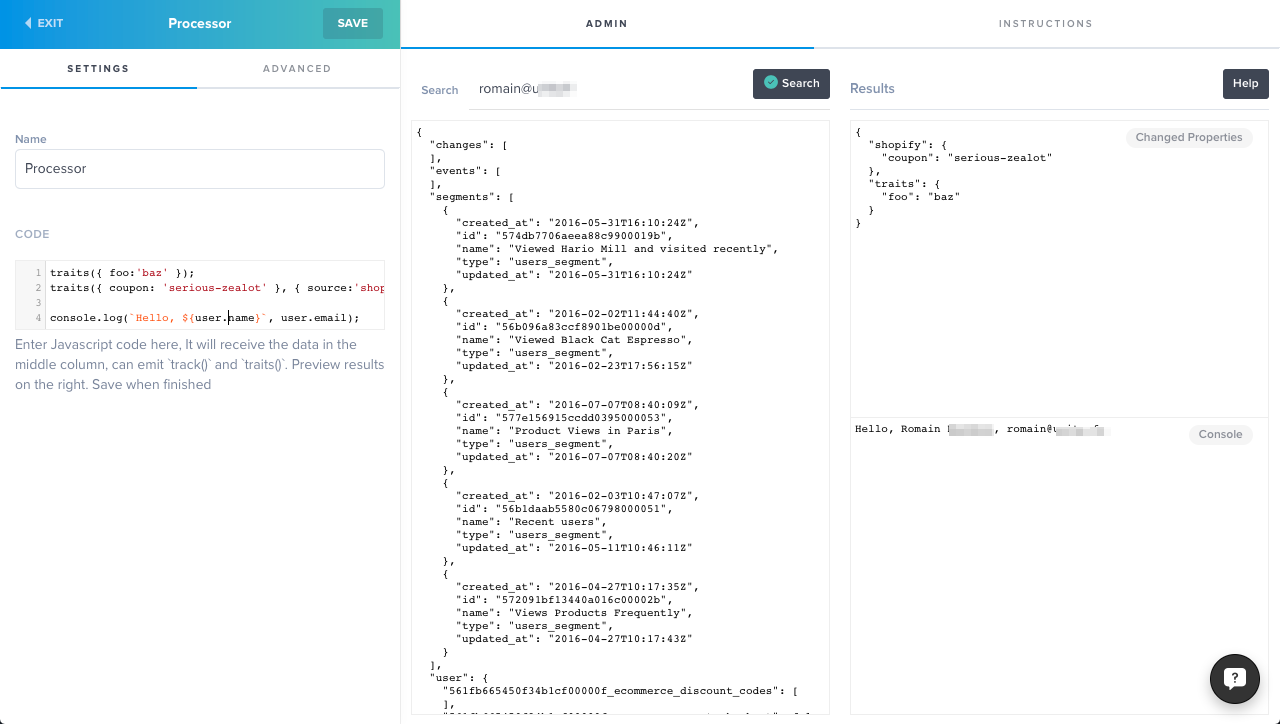
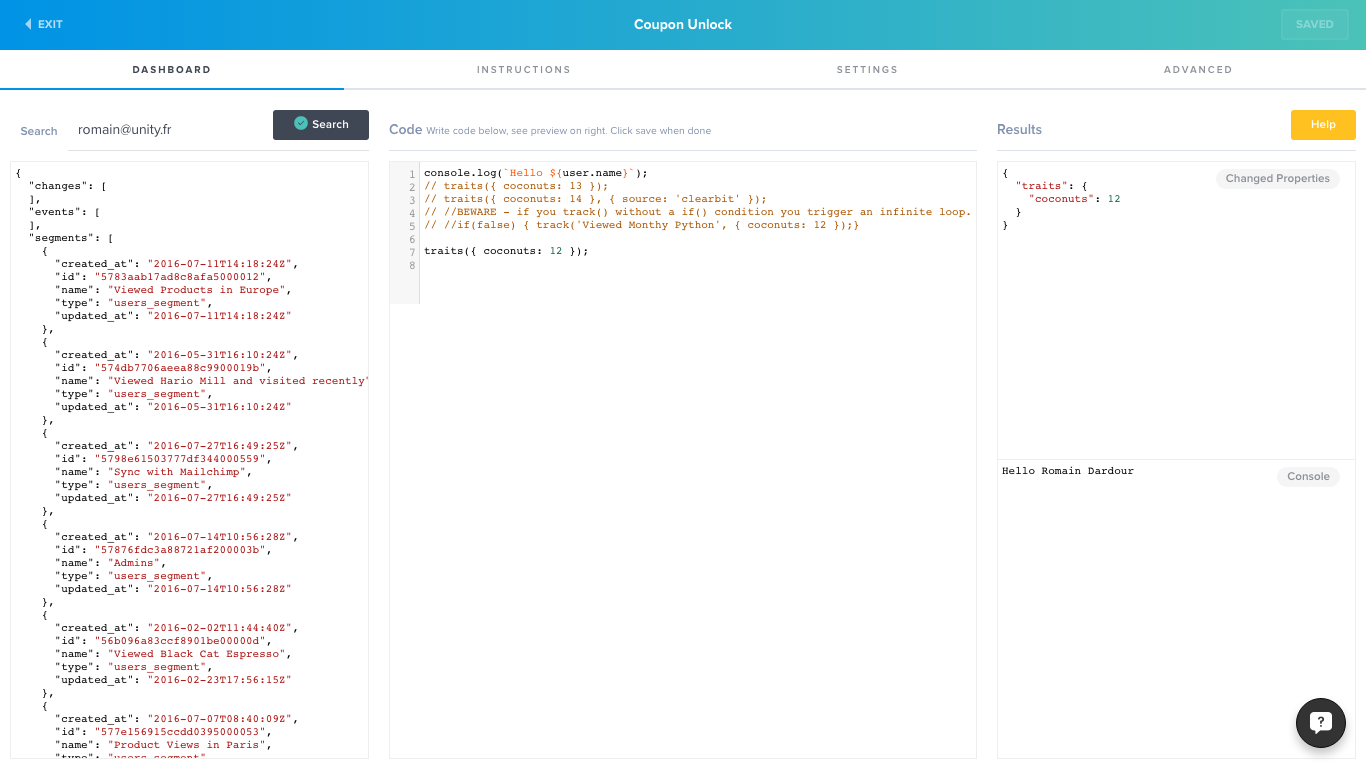
one column layout!

diff --git a/src/ui/search-form.jsx b/src/ui/search-form.jsx
@@ -1,6 +1,6 @@
-import React, { Component } from 'react';
-import Icon from './icon';
-import { Button } from 'react-bootstrap';
+import React, { Component } from "react";
+import Icon from "./icon";
+import { Button } from "react-bootstrap";
 
 export default class SearchForm extends Component {
 
@@ -23,7 +23,7 @@ export default class SearchForm extends Component {
   componentWillReceiveProps(nextProps) {
     const { userSearch } = nextProps;
     const state = { dirty: false };
-    if (userSearch && userSearch != this.props.userSearch) {
+    if (userSearch && userSearch !== this.props.userSearch) {
       state.userSearch = userSearch;
     }
     this.setState(state);
@@ -32,10 +32,10 @@ export default class SearchForm extends Component {
   getIcon() {
     const { loading, error } = this.props;
     const { dirty } = this.state;
-    if (loading) return 'spinner';
-    if (!dirty && error && error.reason === 'user_not_found') return 'cross';
-    if (!dirty) return 'valid';
-    return 'search';
+    if (loading) return "spinner";
+    if (!dirty && error && error.reason === "user_not_found") return "cross";
+    if (!dirty) return "valid";
+    return "search";
   }
 
   render() {
@@ -43,12 +43,12 @@ export default class SearchForm extends Component {
 
     return <form className="form form-light mt-05 mb-05" onSubmit={this.handleSubmit.bind(this)}>
       <div className="input-group">
-        <div className="input-group-addon" style={{textTransform:'none', background: 'none'}}>
+        <div className="input-group-addon" style={{ textTransform: "none", background: "none" }}>
           <h4 className="m-0 text-muted">Search</h4>
         </div>
         <input type="text" placeholder="Name or Email" value={this.state.userSearch} onChange={this.handleEmailChange.bind(this)} className="form-control form-control-sm" />
-        <div style={{ position: 'absolute', right: 0, top: -10, zIndex: 2 }}>
-          <Button bsStyle="default" bsSize="sm" clasName='btn-pill btn-rounded' onClick={this.handleSubmit.bind(this)} > <Icon name={this.getIcon()} /> Search </Button>
+        <div style={{ position: "absolute", right: 0, top: -10, zIndex: 2 }}>
+          <Button bsStyle={ loading ? "secondary" : "default" } bsSize="sm" clasName='btn-pill btn-rounded' onClick={this.handleSubmit.bind(this)} > <Icon name={this.getIcon()} /> { loading ? "Loading" : "Search" } </Button>
         </div>
       </div>
     </form>;

diff --git a/src/app.jsx b/src/app.jsx
@@ -1,8 +1,9 @@
 import React, { Component } from "react";
 import { Grid, Col, Row, Button } from "react-bootstrap";
 
-import ResultsPane from "./results";
 import UserPane from "./user";
+import CodePane from "./code";
+import ResultsPane from "./results";
 
 export default class App extends Component {
 
@@ -21,7 +22,6 @@ export default class App extends Component {
 
   _onChange = () => {
     const state = this.props.engine.getState();
-    console.log(state)
     this.setState(state);
   }
 
@@ -31,22 +31,37 @@ export default class App extends Component {
     }
   }
 
+  handleCodeUpdate(code) {
+    this.props.engine.updateCode(code);
+  }
+
   render() {
-    const { user, loading, userSearch, initialized, error } = this.state;
+    const { user, loading, userSearch, initialized, error, ship = {} } = this.state;
+    const { private_settings = {} } = ship;
+    const { code = "" } = private_settings;
     if (initialized) {
       return <Grid fluid={true} className="pt-1">
         <Row className="flexRow">
           <UserPane
             className="flexColumn userPane"
-            sm={6}
+            sm={4}
+            md={3}
             loading={loading}
             onSearch={this.handleSearch.bind(this)}
             value={user}
             error={error}
             userSearch={userSearch} />
+          <CodePane
+            className="flexColumn userPane"
+            onChange={this.handleCodeUpdate.bind(this)}
+            value={code}
+            sm={4}
+            md={6}
+          />
           <ResultsPane
             className="flexColumn pl-1 resultPane"
-            sm={6}
+            sm={4}
+            md={3}
             loading={loading}
             error={error}
             {...this.state.result} />

diff --git a/src/engine.js b/src/engine.js
@@ -13,6 +13,7 @@ export default class Engine extends EventEmitter {
     this.state = { ship, loading: false };
     this.compute({ ship, userId });
     this.compute = _.debounce(this.compute, 1000);
+    this.updateParent = _.debounce(this.updateParent, 1000);
   }
 
   setState(changes) {
@@ -45,6 +46,33 @@ export default class Engine extends EventEmitter {
     this.compute({ ship, user: this.state.user });
   }
 
+  updateParent(ship) {
+    if (window.parent) {
+      window.parent.postMessage(JSON.stringify({
+        from: "embedded-ship",
+        action: "update",
+        ship: { private_settings: { code } }
+      }), "*");
+    }
+  }
+  updateCode(code) {
+    const { ship } = this.state || {};
+    if (!ship || !ship.id) return;
+    const newShip = {
+      ...ship,
+      private_settings: {
+        ...ship.private_settings,
+        code
+      }
+    };
+    this.updateParent(code);
+    this.setState({ ship: newShip });
+    this.compute({
+      ship: newShip,
+      user: this.state.user
+    });
+  }
+
   compute(params) {
     if (this.state.loading) return false;
     this.setState({ loading: true });
@@ -67,6 +95,11 @@ export default class Engine extends EventEmitter {
             });
           } else {
             const { ship, user, took, result } = body || {};
+
+            // Don't kill user code
+            const code = this.state.ship.private_settings.code;
+            ship.private_settings.code = code;
+
             this.setState({
               loading: false,
               initialized: true,

diff --git a/src/ui/area.jsx b/src/ui/area.jsx
@@ -11,6 +11,7 @@ export default class Area extends Component {
     highlight: [],
     onChange: nop,
     wrap: false,
+    javascript: true,
     style: {}
   }
   static propTypes = {
@@ -20,6 +21,13 @@ export default class Area extends Component {
   componentDidUpdate() {
     this.props.highlight.length && this.cm && this.cm.addOverlay({token:this.buildHighlighter()})
   }
+
+  shouldComponentUpdate(nextProps, nextState) {
+    const { value } = this.props;
+    if (value === nextProps.value) return false;
+    return true;
+  }
+
   buildHighlighter(){
     const tokens = _.map(this.props.highlight, (t) => `("${t}":)` );
     const rgs = `(${tokens.join("|")})`;
@@ -40,12 +48,12 @@ export default class Area extends Component {
 
     return (<Codemirror
       style={style}
-      ref = {(c)=> this.cm = c && c.getCodeMirror() }
+      ref = { c => this.cm = c && c.getCodeMirror() }
       value={value}
       onChange={onChange}
       options={{
         mode: {
-          name: "javascript",
+          name: this.props.javascript ? "javascript" : "application/ld+json",
           json: true
         },
         lineWrapping: wrap,

diff --git a/src/user/index.jsx b/src/user/index.jsx
@@ -1,7 +1,7 @@
-import React, { Component, PropTypes } from 'react';
-import SearchForm from '../ui/search-form';
-import { Col } from 'react-bootstrap';
-import Area from '../ui/area';
+import React, { Component, PropTypes } from "react";
+import SearchForm from "../ui/search-form";
+import { Col } from "react-bootstrap";
+import Area from "../ui/area";
 
 export default class UserPane extends Component {
 
@@ -14,13 +14,13 @@ export default class UserPane extends Component {
   }
 
   render() {
-    const { className, sm, loading, onSearch, onChange, value, userSearch, error } = this.props;
+    const { className, sm, md, loading, onSearch, onChange, value, userSearch, error } = this.props;
 
     const search = value && value.user && value.user.email;
 
-    return <Col className={className} sm={sm}>
+    return <Col className={className} md={md} sm={sm}>
       <SearchForm loading={loading} error={error} userSearch={search} onSubmit={onSearch} />
-      <Area value={value} type='info' onChange={onChange}/>
+      <Area value={value} type="info" onChange={onChange} javascript={false}/>
     </Col>;
   }
 }

diff --git a/src/code/index.jsx b/src/code/index.jsx
@@ -23,17 +23,18 @@ export default class Code extends Component {
   render() {
 
     const options = {
-      mode: 'javascript',
+      mode: "javascript",
       lineNumbers: true,
       gutters: ["CodeMirror-lint-markers"],
       lint: true
     };
 
-    const { className, sm, onChange, value, onRun, loading } = this.props;
-    return <Col className={className} sm={sm}>
-      <Header title='Code'/>
+    const { className, sm, md, onChange, value } = this.props;
+    const title = <span>Code <small> Write code below, see preview on right. Click save when done</small></span>
+    return <Col className={className} md={md} sm={sm}>
+      <Header title={title}/>
       <hr/>
-      <Codemirror value={value} onChange={onChange} options={options} />
+      <Codemirror style={{ height: "auto" }} value={value} onChange={onChange} options={options} />
     </Col>
   }
 }

diff --git a/src/ui/help.jsx b/src/ui/help.jsx
@@ -18,7 +18,6 @@ export default class Help extends Component {
   }
 
   render() {
-    let tooltip = <Tooltip className="in" placement="left" id='tip'>Ship Help and Docs, Read me!</Tooltip>;
     const sample = `
 console.log(\`Hello \$\{user.name}\`);
 traits({ coconuts: 12, swallows: 12 });
@@ -35,9 +34,7 @@ if(false) { track("Viewed Monthy Python", { coconuts: 12 });}
     `;
     return (
       <div>
-        <OverlayTrigger overlay={tooltip}>
-          <Button bsStyle="default" bsSize="sm" clasName='btn-pill btn-rounded' onClick={this.open.bind(this)} > Help </Button>
-        </OverlayTrigger>
+        <Button bsStyle="warning" bsSize="sm" clasName='btn-pill btn-rounded' onClick={this.open.bind(this)} > Help </Button>
 
         <Modal show={this.state.showModal} bsSize='large' onHide={this.close.bind(this)}>
           <Modal.Header closeButton>

diff --git a/src/results/index.jsx b/src/results/index.jsx
@@ -23,7 +23,7 @@ export default class Results extends Component {
       payload,
       code,
       className,
-      sm
+      sm, md
      } = this.props;
     const ActivePane = (errors && errors.length) ? Errors : Output;
     const highlight = ((errors && errors.length) ? [] : _.map(_.keys(changes), k => `traits_${k}`) || []);
@@ -35,7 +35,7 @@ export default class Results extends Component {
       }).join(", ");
     }).join("\n");
 
-    return (<Col className={className} sm={sm}>
+    return (<Col className={className} md={md} sm={sm}>
       <Header title="Results">
         <Help showModal={codeIsEmpty}/>
       </Header>

diff --git a/server/index.js b/server/index.js
@@ -5,20 +5,10 @@ if (process.env.NEW_RELIC_LICENSE_KEY) {
 
 const Hull = require("hull");
 const Server = require("./server");
-const Logstash = require("winston-logstash").Logstash;
 
 if (process.env.LOG_LEVEL) {
   Hull.logger.transports.console.level = process.env.LOG_LEVEL;
 }
-
-Hull.logger.add(Logstash, {
-  node_name: "processor",
-  port: process.env.LOGSTASH_PORT,
-  host: process.env.LOGSTASH_HOST
-});
-
-console.log(process.env.LOGSTASH_HOST, process.env.LOGSTASH_PORT);
-Hull.logger.info("Booting");
 
 Server({
   Hull,

diff --git a/server/middlewares/fetch-user.js b/server/middlewares/fetch-user.js
@@ -70,7 +70,7 @@ export default function fetchUser(req, res, next) {
   }
 
   return userPromise.then((payload = {}) => {
-    const segments = _.map(payload.segments, s => _.map(s, "id", "name", "type", "updated_at", "created_at"));
+    const segments = _.map(payload.segments, s => _.pick(s, "id", "name", "type", "updated_at", "created_at"));
     req.hull.user = { changes: [], events: [], ...payload, segments, user: client.utils.groupTraits(payload.user) };
     return req.hull.user;
   }).then(done, (err) => {

diff --git a/src/results/output.jsx b/src/results/output.jsx
@@ -9,6 +9,6 @@ export default ({
     <h6 className='mt-05 mb-05 fieldPill'>Changed Properties</h6>
     <Area value={changes} style={{ height: 100 }} type='info'/>
     <h6 className='mt-05 mb-05 fieldPill'>Console</h6>
-    <Area value={logs} type='info' wrap={true}/>
+    <Area value={logs} type='info' wrap={true} javascript={false}/>
   </div>
 );

diff --git a/src/results/errors.jsx b/src/results/errors.jsx
@@ -4,6 +4,6 @@ import Area from '../ui/area';
 export default ({errors}) => (
   <div className='fieldPillContainer'>
     <h6 className='mt-05 mb-05'>Some errors happened</h6>
-    <Area value={errors} type='danger'/>
+    <Area value={errors} type='danger' javascript={false}/>
   </div>
 )
